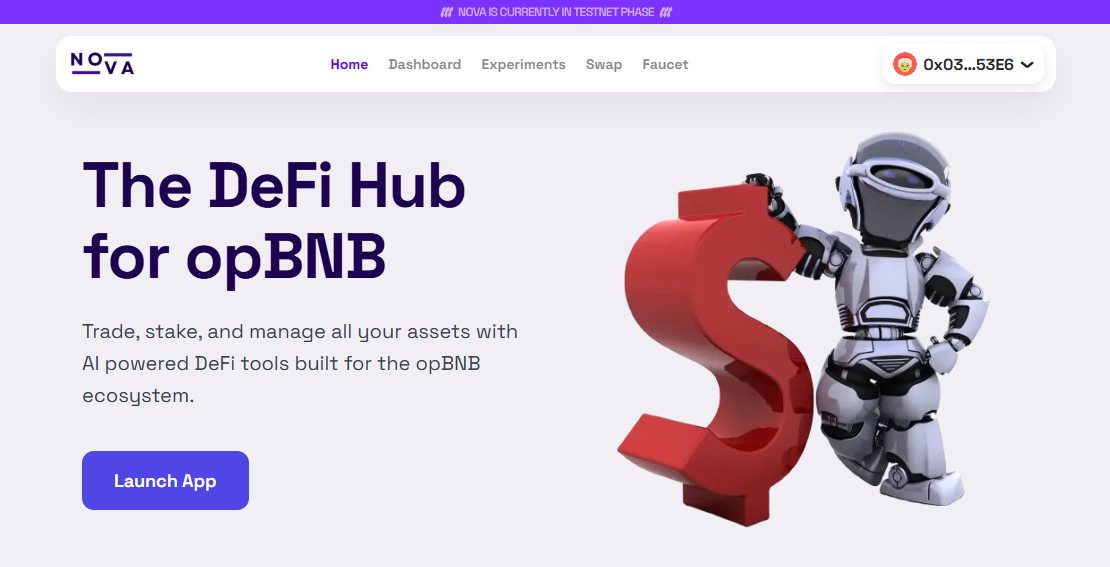
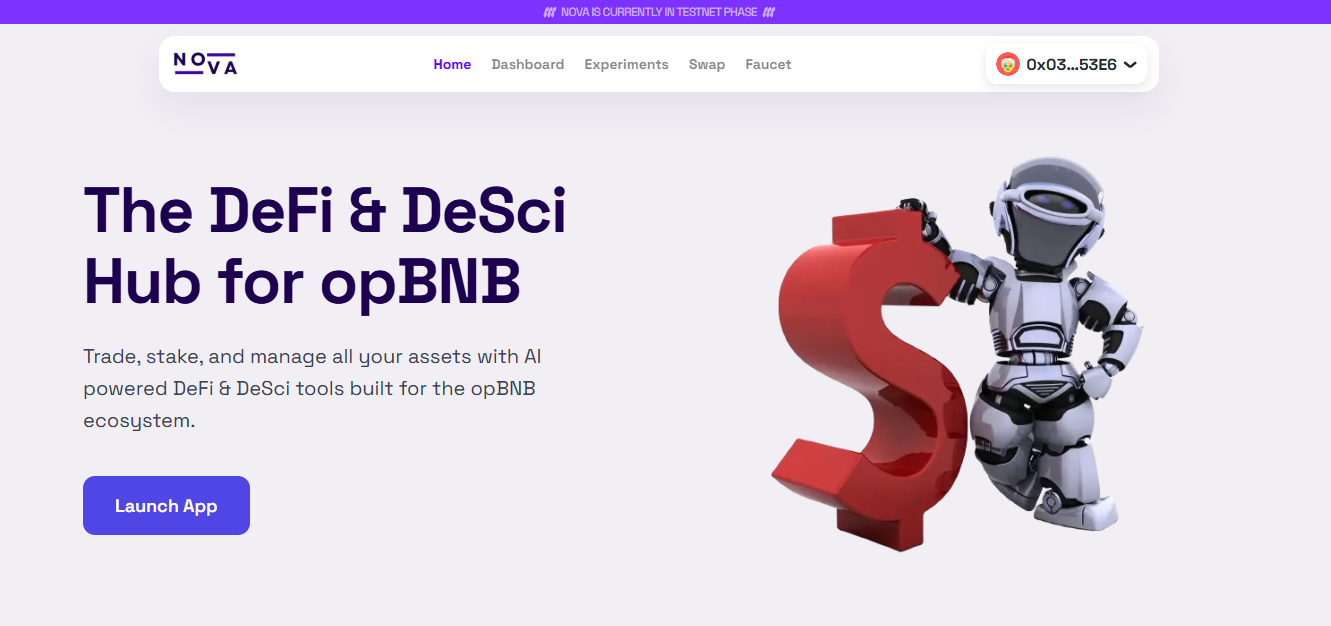
updated hero section: DeFi & DeSci Hub

diff --git a/frontend/src/landing/sections/HeroSection.tsx b/frontend/src/landing/sections/HeroSection.tsx
@@ -9,11 +9,11 @@ export const HeroSection: React.FC = () => {
     <Section>
       <ContentColumn>
         <Title>
-          The DeFi Hub <br />
+          The DeFi & DeSci Hub 
           for opBNB
         </Title>
         <Description>
-          Trade, stake, and manage all your assets with AI powered DeFi tools built for the opBNB ecosystem.
+          Trade, stake, and manage all your assets with AI powered DeFi & DeSci tools built for the opBNB ecosystem.
         </Description>
         <Link href="/home" passHref>
           <StartButton
